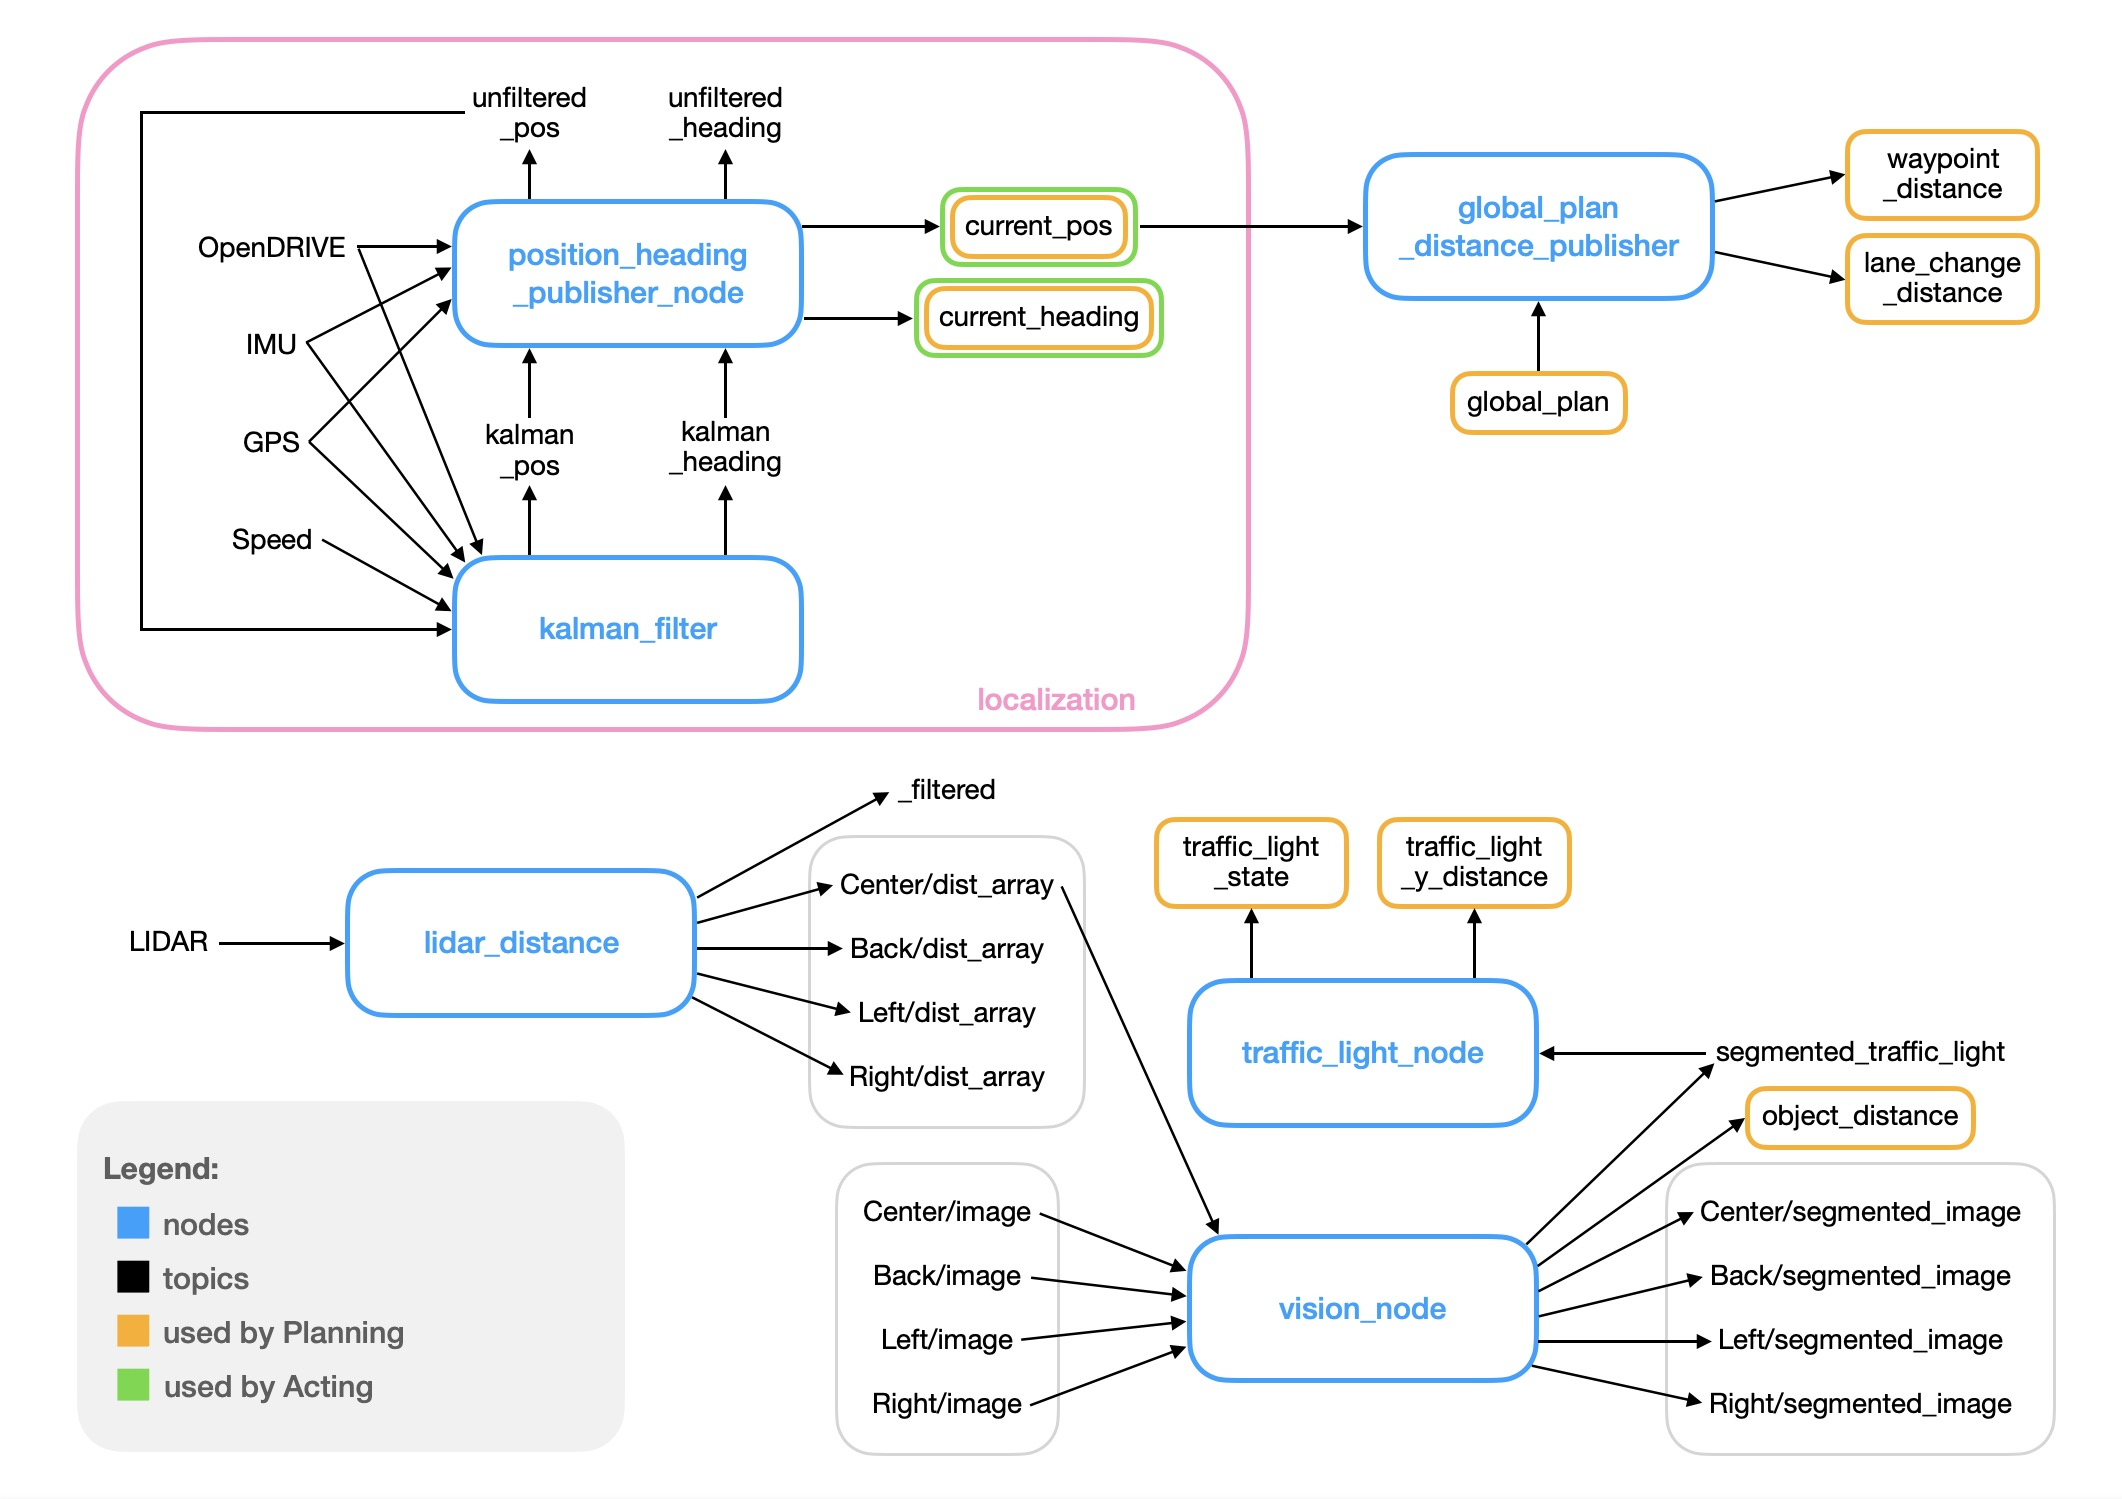
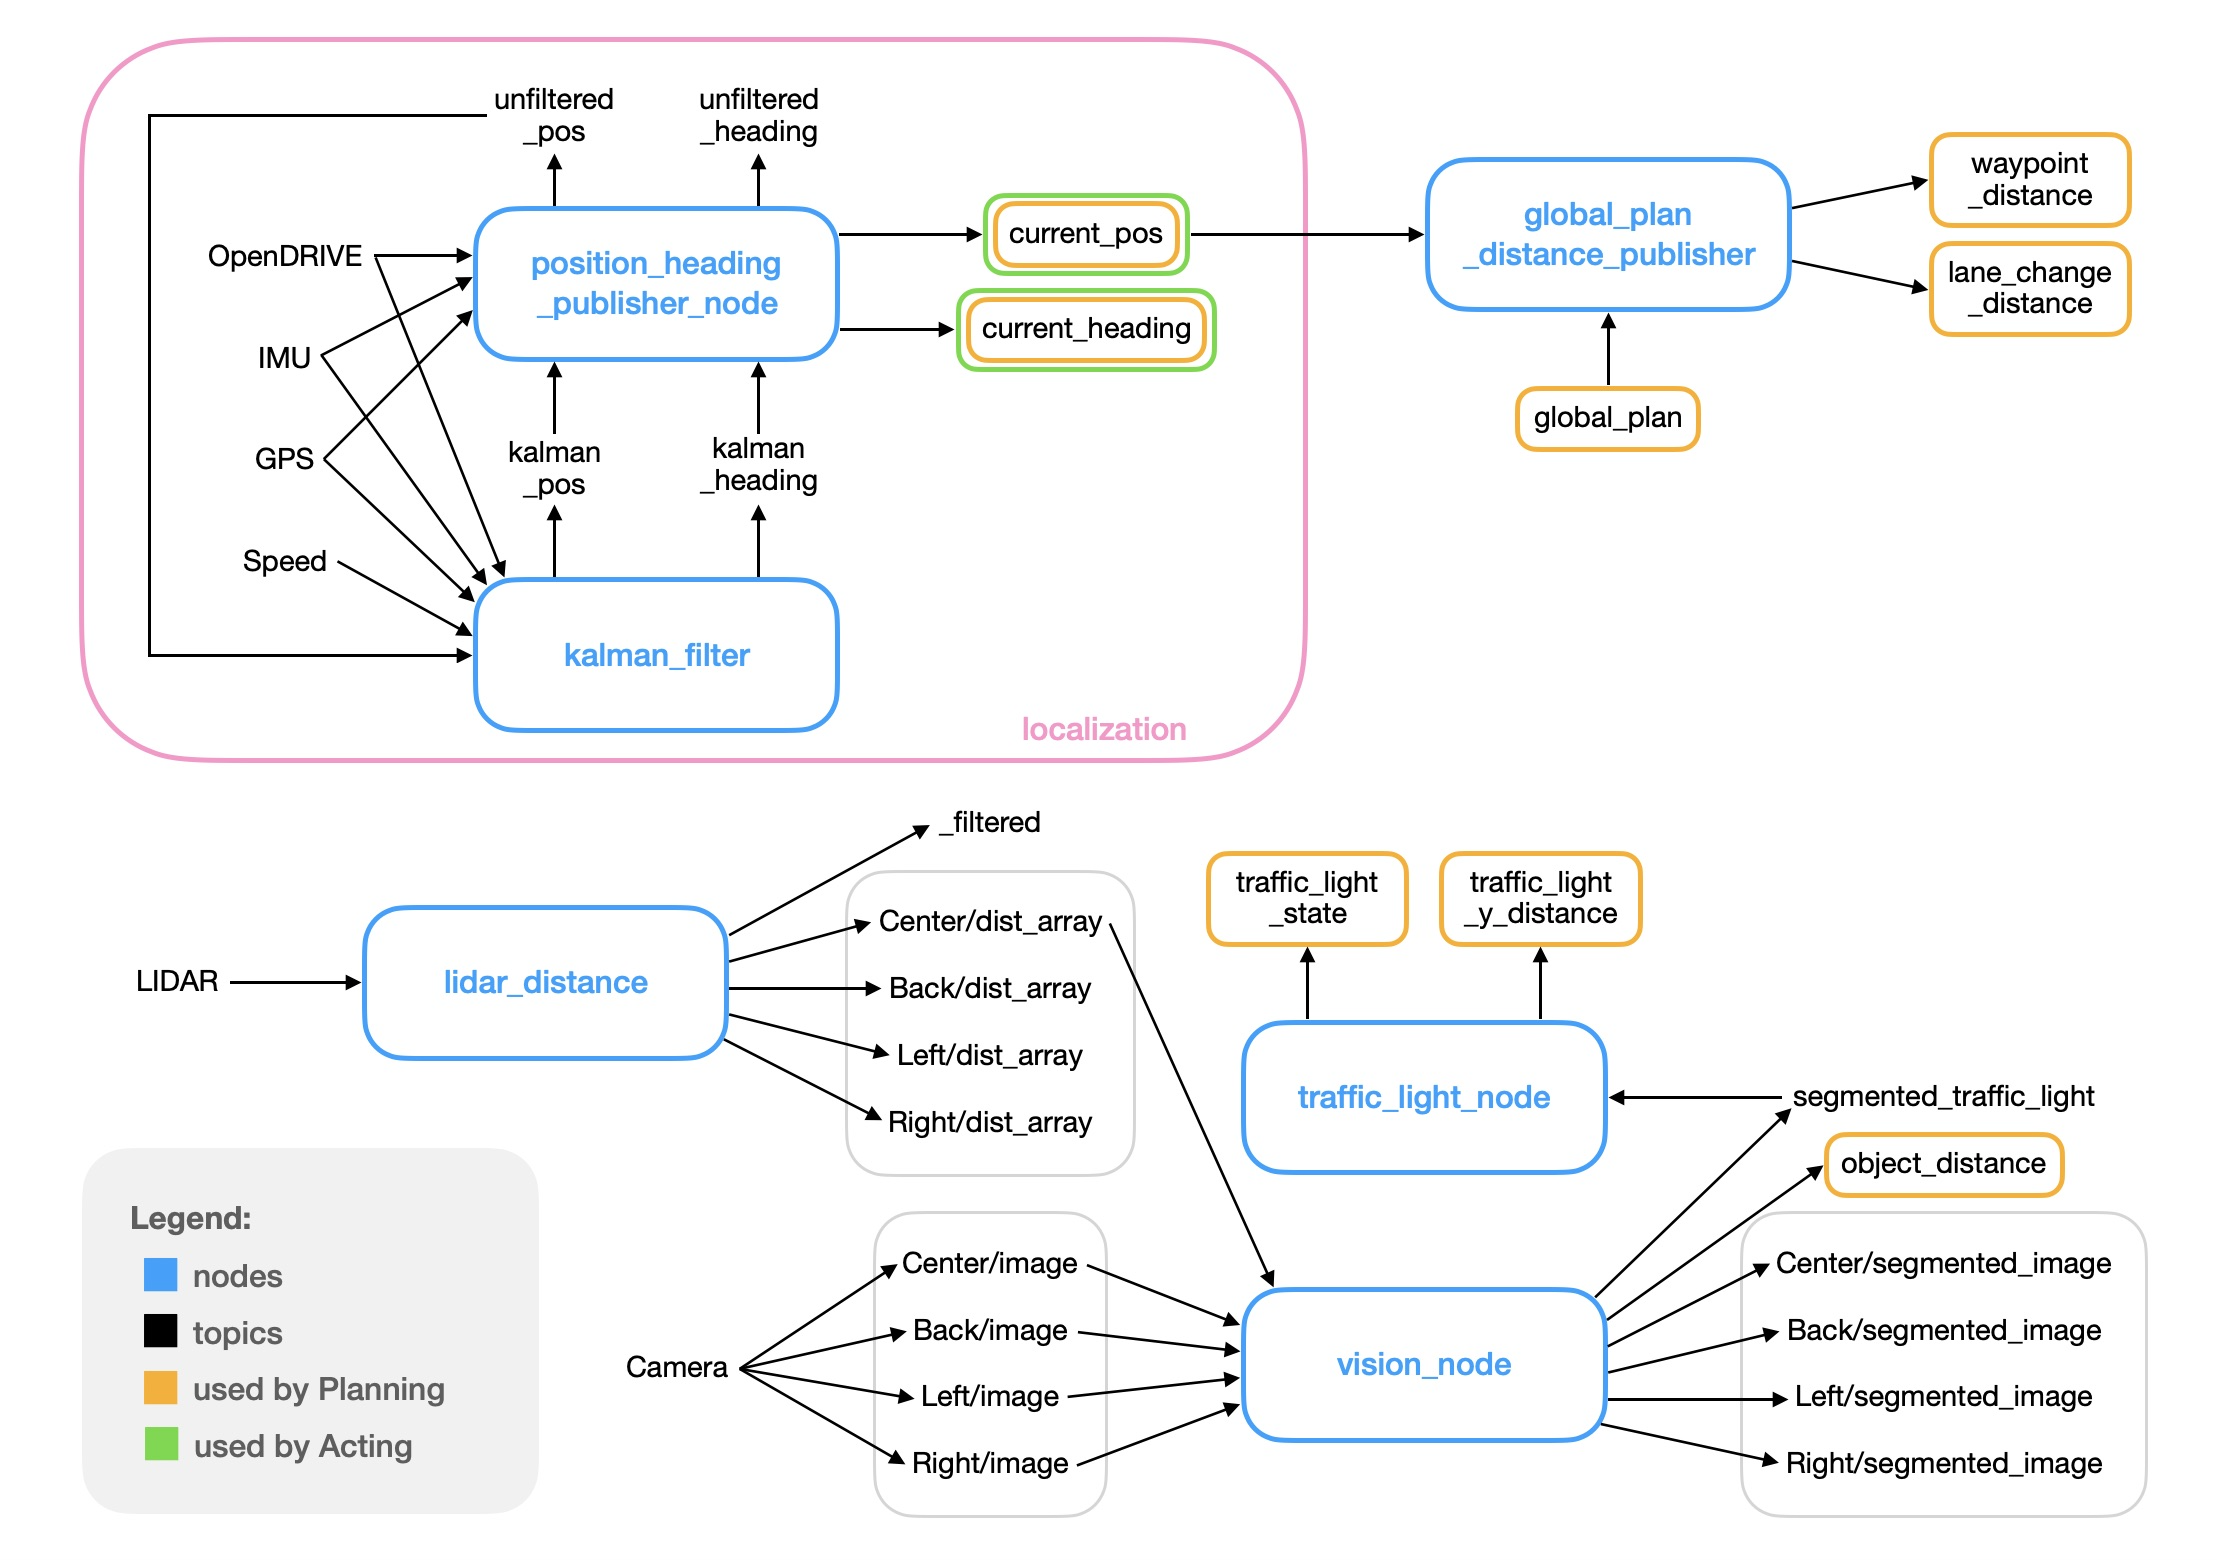
Add camera to overview diagram and adjust the vision node summary sentence

diff --git a/doc/perception/README.md b/doc/perception/README.md
@@ -1,15 +1,16 @@
-# Documentation of perception component
+# Documentation of Perception
 
 This folder contains documentation of the perception components.
 
-In the following diagram you can see all the nodes and topics used in the perception to show how they work together.
+In the following diagram you can see all the nodes and topics used in the perception, to show how they work together.
 
 ![Perception Overview](../../doc/assets/perception/perception_overview.png)
 
 ## Object Detection / Distance and Segmentation
 
 - [Vision Node](./vision_node.md)
-  - The Vision Node provides an adaptive interface that is able to perform object detection and/or image segmentation on multiple cameras at the same time.
+  - The Vision Node provides an adaptive interface that is able to perform object detection and image segmentation on multiple cameras at the same time
+  (even though only one camera perceiving the front of the car is active at the moment).
 - [Distance to Objects](./distance_to_objects.md)
 - [Traffic Light Detection](./traffic_light_detection.md)
 - [Dataset Generator](./dataset_generator.md)
